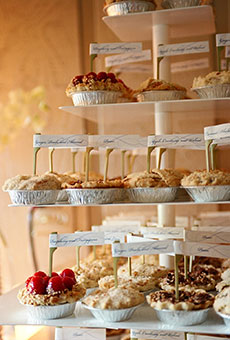
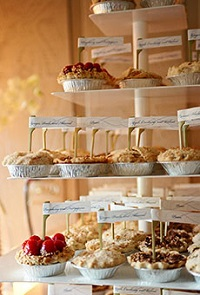
merapikan gbr di Galery mjd 1 size

diff --git a/Gallery.html b/Gallery.html
@@ -11,7 +11,7 @@
 <div class="browse">
 <h2>Browse By Style</h2>
 </div>
-<div class="style">
+<div class="img-responsive">
 <img src="images/classic1.jpg"/>
 <p>Classic</p>
 <img src="images/romantic1.jpg"/>
@@ -20,18 +20,17 @@
 <p>Modren</p>
 <img src="images/beach-themed-wedding-cake1.jpg"/>
 <p>Beach Themed</p>
-</div>
 
-<div class="browse">
 <h2>Browse By Shape</h2>
 </div>
 <div class="style2">
-<img src="../../../Le couple cake/Img/cover1.jpg"/>
+<img src="images/cover1.jpg"/>
 <p>Groom's cake</p>
-<img src="../../../Le couple cake/Img/cupcake8.png.jpg"/>
+<img src="images/cupcake8.png.jpg"/>
 <p>Cup cake</p>
-<img src="../../../Le couple cake/Img/pie1.jpg"/>
+<img src="images/pie1.jpg"/>
 <p>Pie</p>
+
 </div>
 
 </div>
